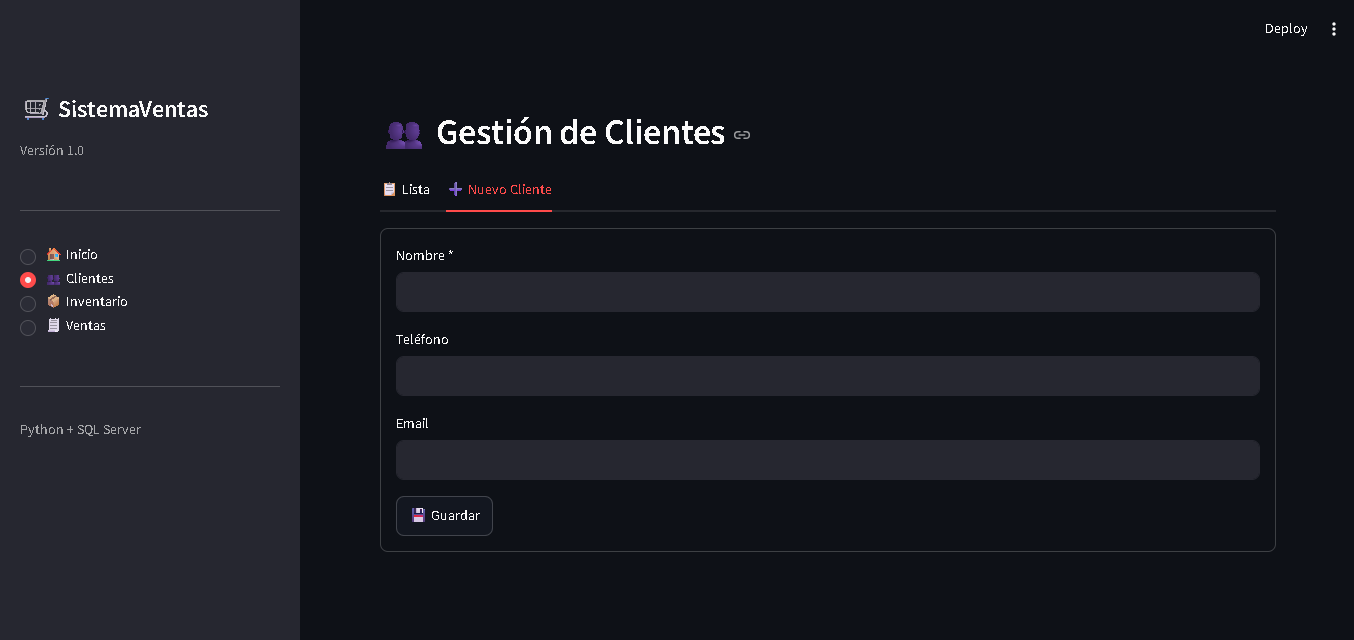
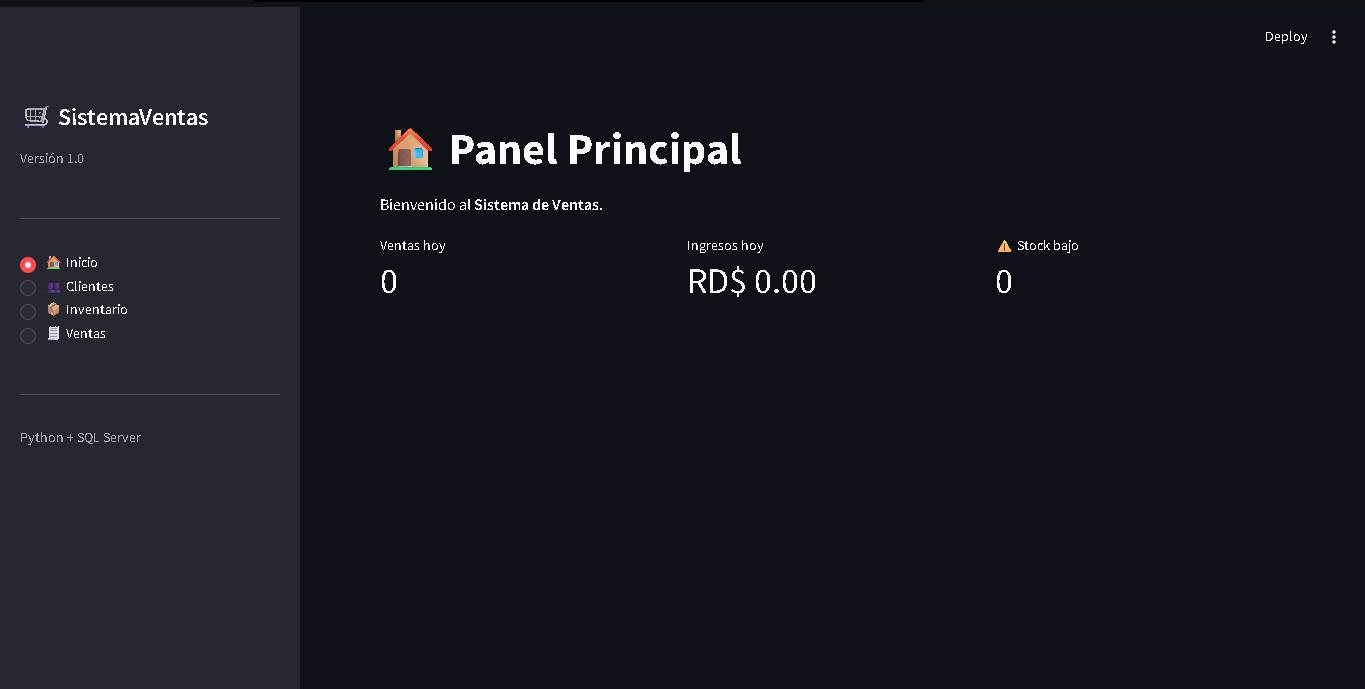
Corregir rutas de imagenes

diff --git a/README.md b/README.md
@@ -22,6 +22,6 @@ Sistema de gestión de ventas desarrollado con Python, SQL Server y Streamlit.
 Frandy Yanuel — Desarrollador Python
 
 ## 📸 Vista previa
-![Panel Principal](C:\Users\WinterOS\Pictures\Screenshots\Captura de pantalla 2026-06-08 195653.png)
-![Clientes](C:\Users\WinterOS\Pictures\Screenshots\Captura de pantalla 2026-06-08 200021.png)
-![Clientes](C:\Users\WinterOS\Pictures\Screenshots\Captura de pantalla 2026-06-08 200037.png)
+![Inicio](screenshots/panel.png)
+![Clientes 1](screenshots/Clientes1.png)
+![Clientes 2](screenshots/Clientes2.png)